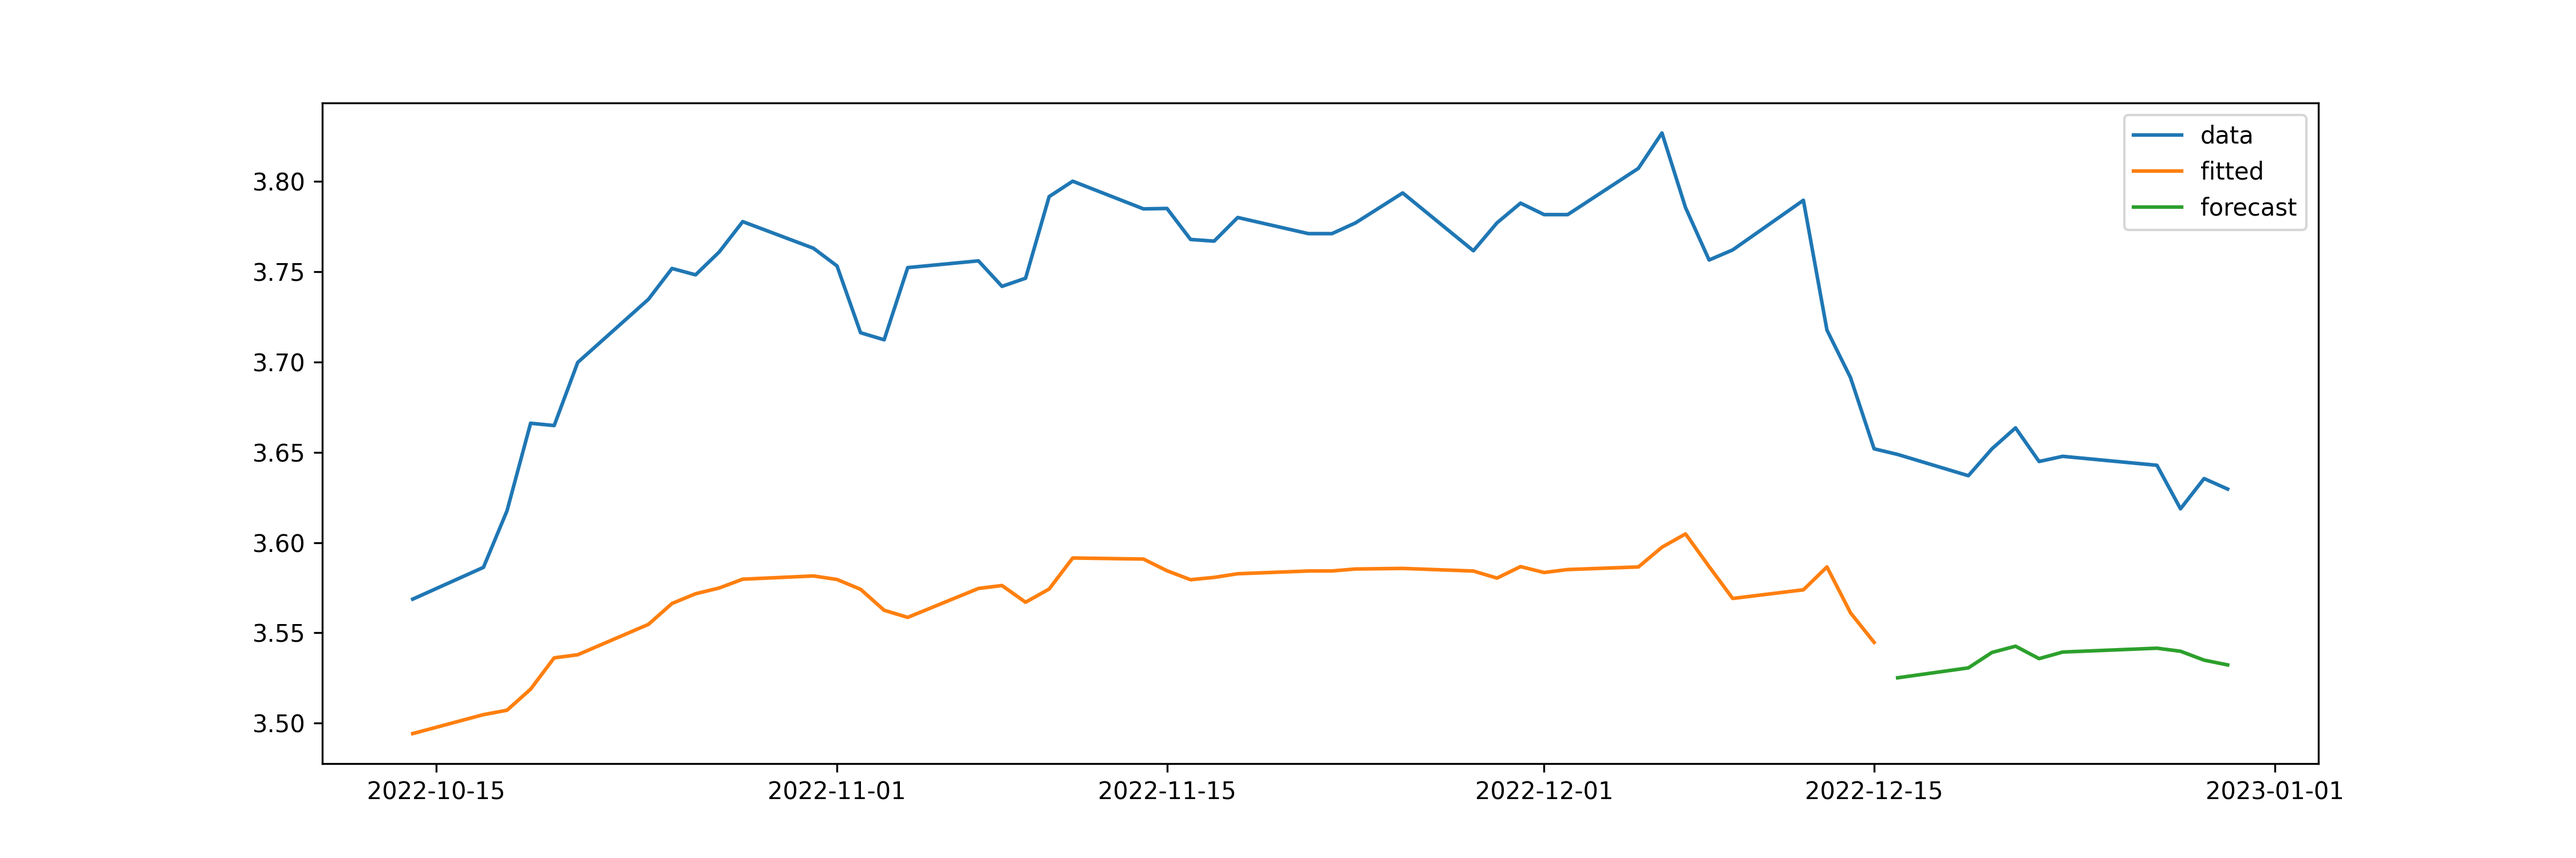
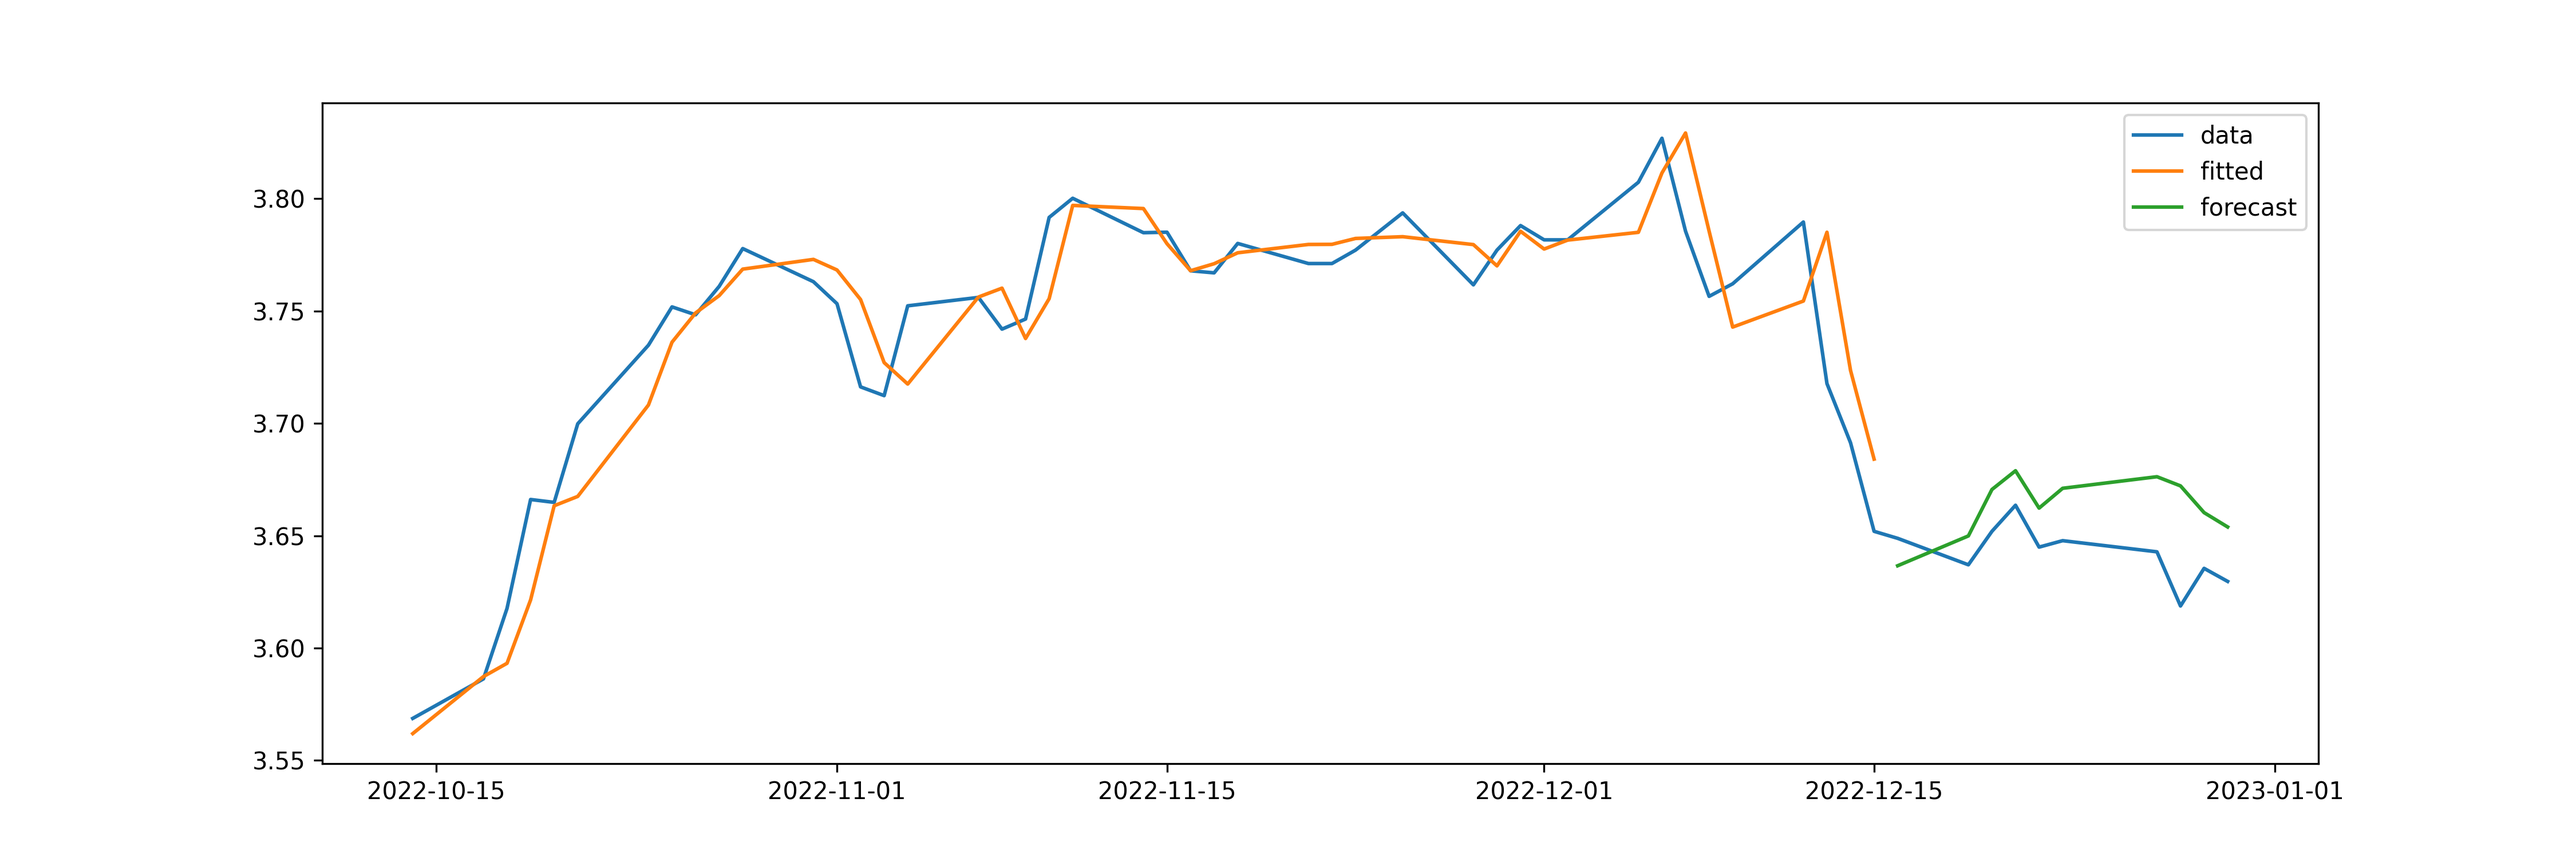
corrected the scaler

diff --git a/Forecasting/ts_statsmodels.py b/Forecasting/ts_statsmodels.py
@@ -187,9 +187,14 @@ class StocksForecast:
 
         stock_cols = df_all.columns.values
 
+        scaler_list = list()
+        scaler_idx = 0
         # standardizing different stocks
         for value in stock_cols:
             scaler = StandardScaler()
+            scaler_list.append(scaler)
+            scaler_idx += 1
+
             train[f'Scaled_{value}'] = scaler.fit_transform(train[[value]])
             test[f'Scaled_{value}'] = scaler.transform(test[[value]])
             df_all.loc[train_idx, f'Scaled_{value}'] = train[f'Scaled_{value}']
@@ -197,7 +202,7 @@ class StocksForecast:
 
         cols = ['Scaled_' + value for value in stock_cols]
 
-        return df_all, train, test, train_idx, test_idx, stock_cols, cols, scaler
+        return df_all, train, test, train_idx, test_idx, stock_cols, cols, scaler_list
 
     def run_var(self, stock_list=('UAL', 'WMT', 'PFE'), col='Close'):
         """
@@ -210,7 +215,7 @@ class StocksForecast:
 
         name = 'var'
         output = self.prepare_data_var(stock_list, col)
-        df_all, train, test, train_idx, test_idx, stock_cols, cols, scaler = output
+        df_all, train, test, train_idx, test_idx, stock_cols, cols, scaler_list = output
 
         model = VAR(train[cols])
         result = model.fit(maxlags=40, method='mle', ic='aic')
@@ -221,6 +226,8 @@ class StocksForecast:
 
         train_idx[:lag_order] = False
 
+        # index "0" for the first stock (UAL). Can modify to be more generic
+        scaler = scaler_list[0]
         fitted_scaled = result.fittedvalues[cols[0]]
         fitted = scaler.inverse_transform(np.reshape(fitted_scaled, (-1, 1)))
         forecast_scaled = forecast_df[cols[0]].values
